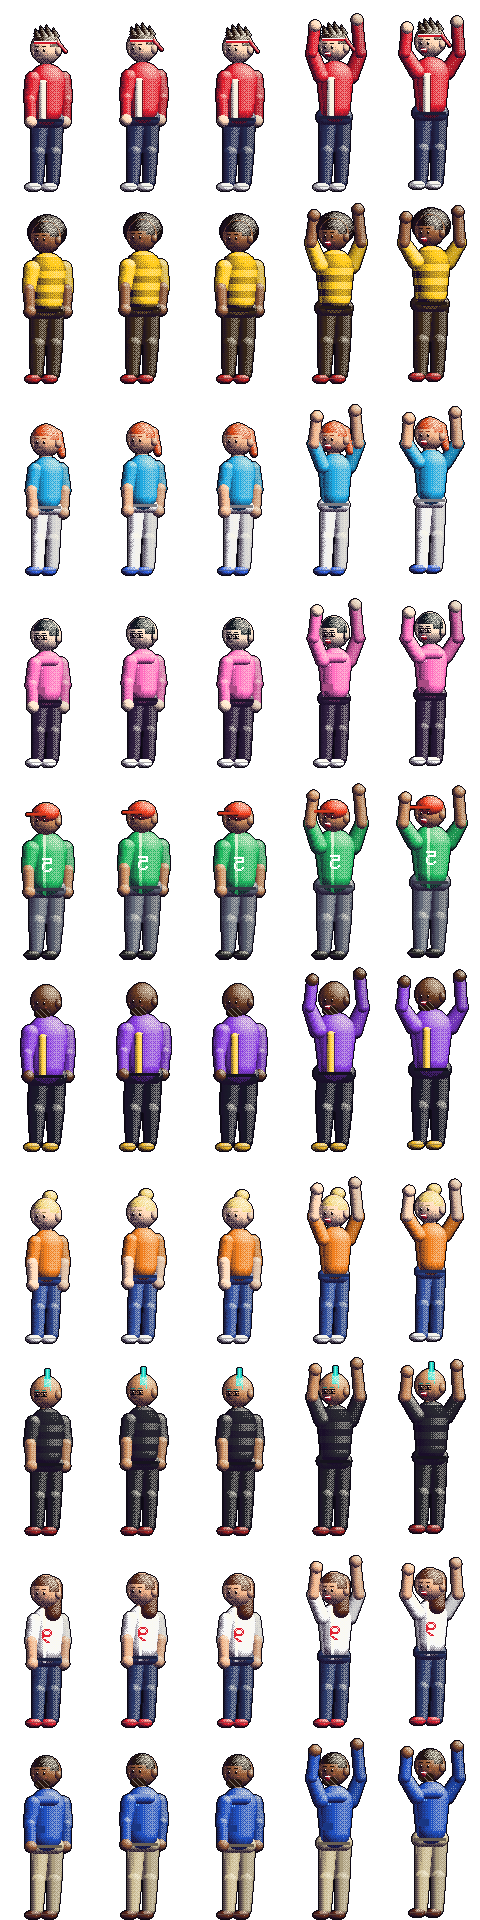
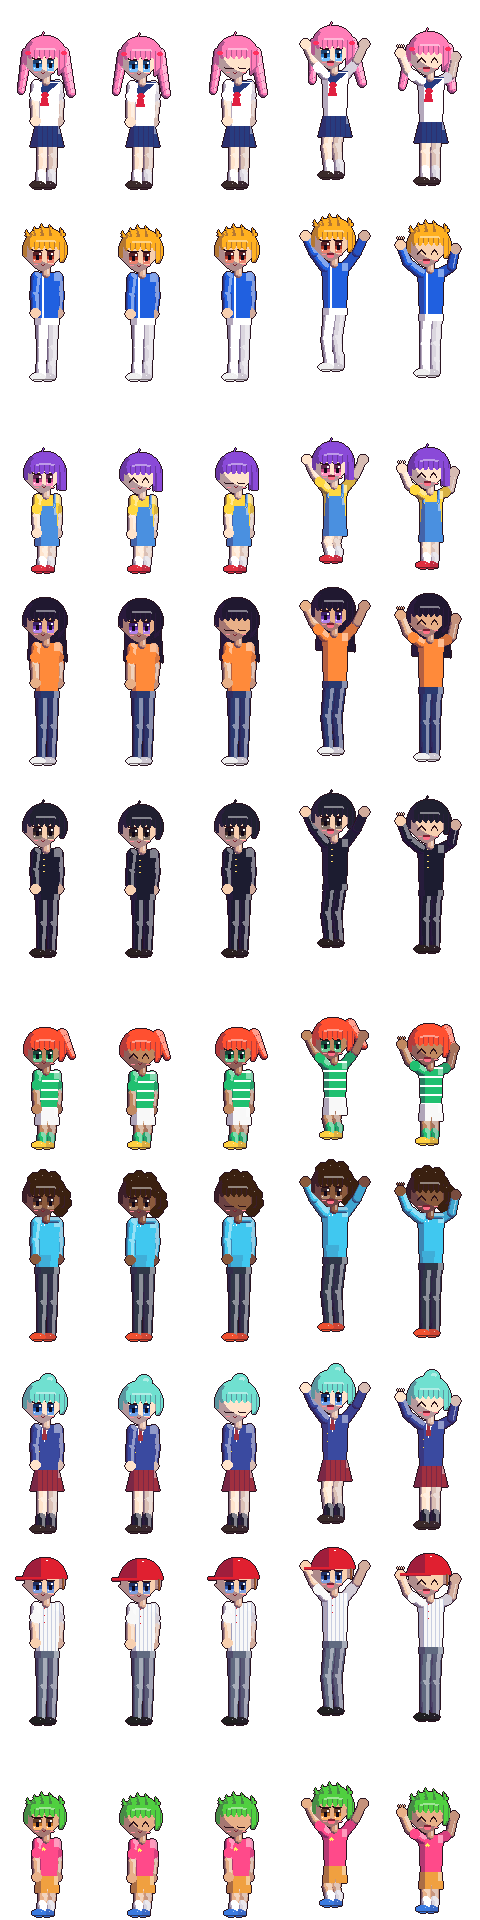
Ball slide + 3-tap flow, slower meters, cyan aim arrow, harder/snappier physics

diff --git a/index.html b/index.html
@@ -22,9 +22,9 @@ canvas{position:fixed;left:0;top:0;image-rendering:pixelated;image-rendering:cri
 // capsule (3 circles) that slides and spins and keeps hitting others. Kickback walls bounce pins back.
 // Ball: skid on oil -> hook when friction rises (dry back end) -> roll, from lateral rev (side spin).
 const LX=24,LR=66,GW=6,CX=45,PR=2.4,BR=4.3,START_Y=145,FOUL_Y=175,PIN_Y=22,SP=11;
-const DEF_START_X=CX,AIM_Y=105,AIM_SWEEP=7;
-const M_BALL=16,M_PIN=3.5,E_BP=0.65,E_PP=0.7,MU_C=0.25,TOPPLE_J=0.8;
-const OIL_END=72,MU_OIL=0.0016,MU_DRY=0.0125,REV_MAX=1.05;
+const DEF_START_X=CX,AIM_Y=105,AIM_SWEEP=11;
+const M_BALL=16,M_PIN=3.5,E_BP=0.65,E_PP=0.75,MU_C=0.25,TOPPLE_J=1.0;
+const OIL_END=72,MU_OIL=0.0016,MU_DRY=0.0125,REV_MAX=1.4;
 const KICK_L=LX-GW,KICK_R=LR+GW,DECK_Y=PIN_Y+38,PIT_Y=PIN_Y-12;
 const LYING=[[-4.5,2.4],[0.5,1.9],[5.5,1.3]]; // capsule circles: [axial offset from center, radius]
 const I_LY=M_PIN*15*15/12;
@@ -72,7 +72,7 @@ function walls(p,dt){if(p.gone)return;
 }
 function ballLane(b,dt){ // skid / hook / roll from lateral rev
  if(b.gutter||b.gone)return;const mu=b.y>OIL_END?MU_OIL:MU_DRY,slip=b.ws-b.vx;
- if(Math.abs(slip)>1e-4){const f=Math.sign(slip)*Math.min(mu*dt*Math.max(0.5,3/Math.max(1,-b.vy)),Math.abs(slip)/3.5);b.vx+=f;b.ws-=2.5*f;}
+ if(Math.abs(slip)>1e-4){const f=Math.sign(slip)*Math.min(mu*dt*Math.pow(3/Math.max(1,-b.vy),1.6),Math.abs(slip)/3.5);b.vx+=f;b.ws-=2.5*f;}
  b.vy*=1-0.0012*dt;}
 function step(){if(state!=='roll'||freeze)return;frames++;for(let k=0;k<8;k++)sub(1/8);
  const b=ball,moving=pins.some(p=>!p.gone&&Math.hypot(p.vx,p.vy)>0.03);
@@ -84,7 +84,7 @@ function sub(dt){const b=ball;
  if(b.y<PIT_Y)b.gone=true;
  for(const p of pins){if(p.lying===undefined){p.lying=false;p.w=0;p.a=0;}if(!b.gutter&&!b.gone)contact(b,p);}
  for(let i=0;i<pins.length;i++)for(let j=i+1;j<pins.length;j++)contact(pins[i],pins[j]);
- for(const p of pins){if(p.gone)continue;const fr=p.lying?0.006:0.03;p.x+=p.vx*dt;p.y+=p.vy*dt;p.vx*=1-fr*dt;p.vy*=1-fr*dt;
+ for(const p of pins){if(p.gone)continue;const fr=p.lying?0.0035:0.025;p.x+=p.vx*dt;p.y+=p.vy*dt;p.vx*=1-fr*dt;p.vy*=1-fr*dt;
   if(p.lying){p.a+=p.w*dt;p.w*=1-0.02*dt;}
   if(Math.hypot(p.vx,p.vy)<0.01){p.vx=p.vy=0;}walls(p,dt);}}
 // ================= SCORING =================
@@ -312,9 +312,9 @@ function burst(n){const q=proj(CX,PIN_Y+4);for(let i=0;i<n;i++){const a=Math.ran
 function pinFx(p){const v=pinVis(p);for(let i=0;i<7;i++){parts.push({x:v.q.x,y:v.by-v.hp*0.5,vx:(Math.random()-0.5)*2.4,vy:-Math.random()*2.2,life:18+Math.random()*14,c:i%3?'#ffffff':'#e8303a',g:0.15});}}
 function updateVisuals(){
  for(const p of pins){if(p.down&&p.fall===undefined){p.fall=0;const sp=Math.hypot(p.vx,p.vy);let dx=p.vx,dy=p.vy;if(sp<0.01){dx=Math.random()-0.5;dy=-0.3;}const l=Math.hypot(dx,dy*0.45)||1;p.dx=dx/l;p.dy=dy*0.45/l;p.hopK=clamp(sp*0.8,0.2,1.4);pinFx(p);}
-  if(p.fall!==undefined&&p.fall<1)p.fall=Math.min(1,p.fall+0.09);}
- if(state==='done'){doneT++;if(doneT>105&&sweep>=1)setupBall(G.fresh);}
- if((state==='done'||state==='over')){sweep=Math.min(1,sweep+0.02);if(sweep>0.35)for(const p of pins)if(p.down)p.sweepY=-(sweep-0.35)/0.65*(p.y+10);}
+  if(p.fall!==undefined&&p.fall<1)p.fall=Math.min(1,p.fall+0.16);}
+ if(state==='done'){doneT++;if(doneT>60&&sweep>=1)setupBall(G.fresh);}
+ if((state==='done'||state==='over')){sweep=Math.min(1,sweep+0.035);if(sweep>0.35)for(const p of pins)if(p.down)p.sweepY=-(sweep-0.35)/0.65*(p.y+10);}
  for(const q of parts){q.x+=q.vx;q.y+=q.vy;q.vy+=q.g;q.life--;}parts=parts.filter(q=>q.life>0);
  shake*=0.86;if(shake<0.2)shake=0;if(banner)banner.t++;if(btnPress>0)btnPress--;}
 // ---- HUD: scorecard
@@ -388,16 +388,18 @@ function drawBanner(){if(!banner)return;const key={'STRIKE!':'text_strike','SPAR
  for(let i=0;i<str.length;i++){const ch=str[i];const c=banner.col==='rainbow'?['#ff4a4a','#ffb02e','#ffe94a','#5be05b','#4ad0ff','#b07cff'][(i+(t>>2))%6]:banner.col;
   const yy=y+Math.round(Math.sin(t*0.25+i*0.8)*(t<30?2:1));textO(ch,x,yy,s,c,'#120a1c','rgba(0,0,0,0.5)');x+=(IMG.font_10x14?12:4)*s;}
  if(sub2)textH(sub2,W/2-twH(sub2)/2,y+16*s,'#ffd84a');}
-function drawHint(){let h='';if(state==='aim')h='TAP TO LOCK AIM';else if(state==='spin')h='TAP TO LOCK SPIN';else if(state==='power')h='TAP TO BOWL';else if(state==='over')h='TAP NEW GAME';
+function drawHint(){let h='';if(state==='aim')h='DRAG BALL - TAP TO AIM';else if(state==='spin')h='TAP TO LOCK SPIN';else if(state==='power')h='TAP TO BOWL';else if(state==='over')h='TAP NEW GAME';
  if(h){const y=SAT+(Q===2?86:42);textH(h,W/2-twH(h)/2,y,'#fff');}}
 // ---- aim indicator (direction only)
-function drawAim(){if(state!=='aim'&&state!=='spin'&&state!=='power')return;const a=proj(ball.x,START_Y-1),b=proj(aim.tx,AIM_Y);
- const n=14,ph=(now()/90)%1;for(let i=0;i<n;i++){const t=(i+ph)/n;const ly=START_Y-1+(AIM_Y-START_Y+1)*t,lx=ball.x+(aim.tx-ball.x)*t,q=proj(lx,ly);
-  const sz=Math.max(2,Math.round(q.s*2*K*0.7));rect(q.x-sz/2,q.y-sz/2,sz,sz,i%2?'rgba(255,255,255,0.85)':'rgba(255,216,74,0.9)');}
- // chevron at target arrow
- const s=Math.max(2,Math.round(b.s*3*K)),pul=(now()/200|0)%2;
- for(let i=0;i<3;i++){rect(b.x-s*(3-i)+0.5,b.y-s*2+i*s,s,s,'#ffd84a');rect(b.x+s*(2-i)+0.5,b.y-s*2+i*s,s,s,'#ffd84a');}
- if(pul)rect(b.x-s*0.5,b.y-s*1,s,s,'#fff');}
+function drawAim(){if(state!=='aim'&&state!=='spin'&&state!=='power')return;
+ const endY=AIM_Y-22,dir=(aim.tx-ball.x)/(START_Y-AIM_Y),pt=ly=>proj(ball.x+dir*(START_Y-ly),ly);
+ const n=11,ph=state==='aim'?(now()/140)%1:0;
+ for(let i=1;i<n;i++){const t=(i+ph)/n,ly=START_Y-6-(START_Y-6-endY)*t,q=pt(ly),r=Math.max(2,Math.round(q.s*SCL*0.55));
+  rect(q.x-r-1,q.y-r-1,2*r+2,2*r+2,'#06202c');rect(q.x-r,q.y-r,2*r,2*r,'#3ee6ff');rect(q.x-r,q.y-r,Math.max(1,r),Math.max(1,r),'#c8fbff');}
+ // arrowhead at the end, in perspective
+ const a=pt(endY+4),b=pt(endY-4),dx=b.x-a.x,dy=b.y-a.y,l=Math.hypot(dx,dy)||1,ux=dx/l,uy=dy/l,wd=Math.max(5,b.s*SCL*2.2),ln=Math.max(8,b.s*SCL*3.2);
+ const tip=[b.x+ux*ln*0.4,b.y+uy*ln*0.4],l1=[b.x-ux*ln*0.6-uy*wd,b.y-uy*ln*0.6+ux*wd],l2=[b.x-ux*ln*0.6+uy*wd,b.y-uy*ln*0.6-ux*wd];
+ g.beginPath();g.moveTo(...tip);g.lineTo(...l1);g.lineTo(...l2);g.closePath();g.lineWidth=3;g.strokeStyle='#06202c';g.stroke();g.fillStyle='#3ee6ff';g.fill();}
 // ---- main draw
 function draw(){
  const ox=shake?Math.round((Math.random()-0.5)*shake*2):0,oy=shake?Math.round((Math.random()-0.5)*shake*2):0;
@@ -420,22 +422,22 @@ addEventListener('resize',fit);
 // ================= INPUT =================
 function toGame(e){const r=cv.getBoundingClientRect();return{x:(e.clientX-r.left)*W/r.width,y:(e.clientY-r.top)*H/r.height};}
 let aiming=false;
-function setAim(p){const u=unproj(p.x,p.y);if(!(u.s>0))return;
- if(u.y>AIM_Y+20){aim.x=clamp(u.x,LX+BR+0.5,LR-BR-0.5);ball.x=aim.x;}else{aim.tx=clamp(u.x,LX+1,LR-1);}}
+function setAim(p){const q=proj(CX,START_Y);aim.x=clamp(CX+(p.x-q.x)/(q.s*SCL),LX+BR+0.5,LR-BR-0.5);ball.x=aim.x;}
 cv.addEventListener('pointerdown',e=>{e.preventDefault();const p=toGame(e),b=M.btn;
  if(p.x>=b.x-8&&p.x<=b.x+b.w+8&&p.y>=b.y-8&&p.y<=b.y+b.h+8){press();return;}
+ if(state==='aim'&&p.y>maskBot){aiming=true;setAim(p);}
  });
-cv.addEventListener('pointermove',e=>{if(aiming&&state==='spin'){e.preventDefault();setAim(toGame(e));}});
+cv.addEventListener('pointermove',e=>{if(aiming&&state==='aim'){e.preventDefault();setAim(toGame(e));}});
 addEventListener('pointerup',()=>aiming=false);addEventListener('pointercancel',()=>aiming=false);
 addEventListener('keydown',e=>{if(e.code==='Space'){e.preventDefault();press();}});
 document.addEventListener('touchmove',e=>e.preventDefault(),{passive:false});
 document.addEventListener('gesturestart',e=>e.preventDefault());
 document.addEventListener('dblclick',e=>e.preventDefault());
-function loop(){if(state==='aim')aim.tx=CX+osc(1100)*AIM_SWEEP;if(state==='spin')mSpin=osc(720);if(state==='power')mPow=osc(620);step();step();updateVisuals();draw();requestAnimationFrame(loop);}
+function loop(){if(state==='aim')aim.tx=clamp(aim.x+osc(1830)*AIM_SWEEP,LX+2,LR-2);if(state==='spin')mSpin=osc(1200);if(state==='power')mPow=osc(1030);step();step();if(state==='roll'&&ball.hitPins)step();updateVisuals();draw();requestAnimationFrame(loop);}
 // ================= BOOT (+ screenshot demo modes via URL hash) =================
 fit();reset();
-if(location.hash==='#idle'||location.hash==='#roll'){for(const n of [10,7,3,9,0,10,8,2,6,1])applyRoll(G,n);G.fresh=true;setupBall(true);aim.tx=CX+6;
- if(location.hash==='#roll'){RNG=()=>0.5;aim.x=CX;ball.x=aim.x;aim.tx=40.5;lockSpin=1;lockPow=-0.6;launch(-0.6,1);let i=0;while(pins.filter(p=>p.down).length<6&&i++<900)for(let k=0;k<8;k++)sub(1/8);for(let k=0;k<6;k++){for(let j=0;j<8;j++)sub(1/8);}freeze=true;RNG=Math.random;banner={t:20,text:'STRIKE!',col:'rainbow'};cheerHold=true;}}
+if(location.hash==='#idle'||location.hash==='#roll'){for(const n of [10,7,3,9,0,10,8,2,6,1])applyRoll(G,n);G.fresh=true;setupBall(true);aim.x=53;ball.x=53;aim.tx=50;
+ if(location.hash==='#roll'){RNG=()=>0.5;aim.x=53;ball.x=aim.x;aim.tx=47.5;lockSpin=-1;lockPow=1;launch(1,-1);let i=0;while(pins.filter(p=>p.down).length<6&&i++<900)for(let k=0;k<8;k++)sub(1/8);for(let k=0;k<6;k++){for(let j=0;j<8;j++)sub(1/8);}freeze=true;RNG=Math.random;banner={t:20,text:'STRIKE!',col:'rainbow'};cheerHold=true;}}
 loop();
 window.__test={setRng(f){RNG=f},get ball(){return ball},get pins(){return pins},get state(){return state},get G(){return G},get msg(){return lastMsg},aim,reset,setupBall,launch,step,finish,computeTotals,applyRoll,newGame,marks};
 </script></body></html>
